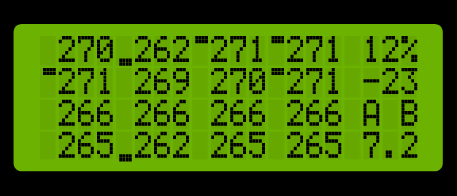
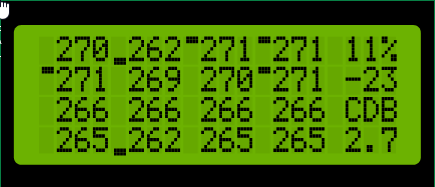
Fix status display bug

diff --git a/JK-BMSToPylontechCAN/JK-BMS_LCD.hpp b/JK-BMSToPylontechCAN/JK-BMS_LCD.hpp
@@ -172,25 +172,22 @@ void doLCDBacklightTimeoutHandling() {
 }
 #  endif
 
-char getCharOfEnableFlags() {
-#if defined(HANDLE_MULTIPLE_BMS)
-    // TODO - Decide, when to use ORed state and when BMS specific ones.
-    auto tStatus = JK_BMS_1.JKAllReplyPointer->BMSStatus.StatusAsByteArray[1];
-#else
-    auto tStatus = JK_BMS_1.JKAllReplyPointer->BMSStatus.StatusAsByteArray[1];
-#endif
-    char tCharToPrint = ' ';
-    if (tStatus & STATUS_BYTE_CHARGE_ACTIVE_MASK) {
-        tCharToPrint = 'C';
+void printShortEnableFlagsOnLCD() {
+    if (JK_BMS_1.JKAllReplyPointer->ChargeIsEnabled) {
+        myLCD.print('C');
+    } else {
+        myLCD.print(' ');
     }
-    if (tStatus & STATUS_BYTE_DISCHARGE_ACTIVE_MASK) {
-        tCharToPrint = 'D';
+    if (JK_BMS_1.JKAllReplyPointer->DischargeIsEnabled) {
+        myLCD.print('D');
+    } else {
+        myLCD.print(' ');
     }
-    if (tStatus & STATUS_BYTE_BALANCER_MASK) {
-        tCharToPrint = 'B';
+    if (JK_BMS_1.JKAllReplyPointer->BalancingIsEnabled) {
+        myLCD.print('B');
+    } else {
+        myLCD.print(' ');
     }
-    return tCharToPrint;
-
 }
 
 /*
@@ -199,16 +196,38 @@ char getCharOfEnableFlags() {
  * If Undervoltage, D is Replaced by U
  */
 void printShortStateOnLCD() {
-    char tCharToPrint = getCharOfEnableFlags();
+#if defined(HANDLE_MULTIPLE_BMS)
+    // TODO - Decide, when to use ORed state and when BMS specific ones.
+    auto tStatus = JK_BMS_1.JKAllReplyPointer->BMSStatus.StatusAsByteArray[1];
+#else
+    auto tStatus = JK_BMS_1.JKAllReplyPointer->BMSStatus.StatusAsByteArray[1];
+#endif
     if (JK_BMS_1.JKAllReplyPointer->BatteryAlarmFlags.AlarmBits.ChargeOvervoltageAlarm) {
-        tCharToPrint = 'O';
+        myLCD.print('O');
+    } else if (tStatus & STATUS_BYTE_CHARGE_ACTIVE_MASK) {
+        myLCD.print('C');
+    } else {
+        myLCD.print(' ');
     }
+
     if (JK_BMS_1.JKAllReplyPointer->BatteryAlarmFlags.AlarmBits.DischargeUndervoltageAlarm) {
-        tCharToPrint = 'U';
+        myLCD.print('U');
+    } else if (tStatus & STATUS_BYTE_DISCHARGE_ACTIVE_MASK) {
+        myLCD.print('D');
+    } else {
+        myLCD.print(' ');
     }
-    myLCD.print(tCharToPrint);
+
+    if (tStatus & STATUS_BYTE_BALANCER_MASK) {
+        myLCD.print('B');
+    } else {
+        myLCD.print(' ');
+    }
 }
 
+/*
+ * not used yet
+ */
 void printLongStateOnLCD() {
     auto tStatus = JK_BMS_1.JKAllReplyPointer->BMSStatus.StatusAsByteArray[1];
 
@@ -259,7 +278,7 @@ void printAlarmHexOrStateOnLCD() {
  * Print Info in last 3 columns
  *  SOC
  *  Current
- *  " A  " or " A B"
+ *  " CDB" state of enabled functions
  *  Battery voltage difference
  */
 void printCellInfoOnLCD() {
@@ -291,13 +310,8 @@ void printCellInfoOnLCD() {
                     // Print current in the last 4 characters
                     LCDPrintFloatValueRightAligned(&myLCD, JK_BMS_1.JKComputedData.BatteryLoadCurrentFloat, 4);
                 } else if (i == 12) {
-                    // print " A  " or " A B"
-                    myLCD.print(F(" A "));
-                    if (JK_BMS_1.JKAllReplyPointer->BMSStatus.StatusAsByteArray[1] & STATUS_BYTE_BALANCER_MASK) {
-                        myLCD.print('B');
-                    } else {
-                        myLCD.print(' ');
-                    }
+                    myLCD.print(' ');
+                    printShortStateOnLCD();
                 }
             }
             myLCD.setCursor(0, tRowNumber);
@@ -812,7 +826,7 @@ void printOverwiewOrAlarmInfoOnLCD() {
 // Last 3 characters are the enable states
         myLCD.setCursor(14, 1);
         myLCD.print(F("En:"));
-        myLCD.print(getCharOfEnableFlags());
+        printShortEnableFlagsOnLCD();
 
         /*
          * Row 3 - Voltage, Current and Power
@@ -836,7 +850,7 @@ void printBMSDataOnLCD() {
 #  if !defined(DISPLAY_ALWAYS_ON)
             && !sSerialLCDIsSwitchedOff
 #  endif
-            ) {
+    ) {
         /*
          * Check for alarm info, which is not yet reset by main loop at time of calling
          */

diff --git a/JK-BMSToPylontechCAN/JK-BMS.h b/JK-BMSToPylontechCAN/JK-BMS.h
@@ -299,7 +299,7 @@ struct JKReplyStruct {
     union BatteryAlarmFlagsUnion BatteryAlarmFlags;
 
     uint8_t TokenBatteryStatus;                     // 0x8C
-    union BMSStatusUnion BMSStatus;
+    union BMSStatusUnion BMSStatus;                 // Current status, not enabled one
 
     uint8_t TokenBatteryOvervoltageProtection10Millivolt; // 0x8E
     uint16_t BatteryOvervoltageProtection10Millivolt; // 1000 to 15000 BMS computed: # of cells * CellOvervoltageProtectionMillivolt

diff --git a/README.md b/README.md
@@ -104,9 +104,9 @@ The same (raw) data without ESR correction of voltage.
 | ![Big info page](https://github.com/ArminJo/JK-BMSToPylontechCAN/blob/main/pictures/BigInfoPage.png) | ![Overview page](https://github.com/ArminJo/JK-BMSToPylontechCAN/blob/main/pictures/OverviewPage.png) |
 | Undervoltage Alarm page<br/>Start of alarm message in first line<br/>Index and value of minimum cell and uptime in second line | Overtemperature Alarm page<br/>Alarm message is cleared by switching page |
 | ![Alarm page undervoltage](https://github.com/ArminJo/JK-BMSToPylontechCAN/blob/main/pictures/AlarmPage_Undervoltage.png) | ![Alarm page overtemperature](https://github.com/ArminJo/JK-BMSToPylontechCAN/blob/main/pictures/AlarmPage_MosFetOvertemperature.png) |
-| Cell info page with maximum and minimum indicators | Cell info page with:<br/>- (Cell voltages - 3 V)<br/>- SOC, current in A, balancing flag and difference between minimum / empty and current battery voltage in last column |
+| Cell info page with maximum and minimum indicators | Cell info page with SHOW_SHORT_CELL_VOLTAGES aktivated:<br/>- (Cell voltages - 3 V)<br/>- SOC, current in A, state of enabled functions and difference between minimum / empty and current battery voltage in last column |
 | ![Cell info page long](https://github.com/ArminJo/JK-BMSToPylontechCAN/blob/main/pictures/CellInfoPage.png) | ![Cell info page short](https://github.com/ArminJo/JK-BMSToPylontechCAN/blob/main/pictures/CellInfoPage_shortVoltages.png) |
-| Maximum Cell Statistics page with total Time of Balancing | Maximum Cell Statistics page |
+| Maximum Cell Statistics page with total Time of Balancing | Maximum Cell Statistics page with total balancing time in right rows|
 | ![Max page](https://github.com/ArminJo/JK-BMSToPylontechCAN/blob/main/pictures/StatisticsMaxPage.png) | ![Min page](https://github.com/ArminJo/JK-BMSToPylontechCAN/blob/main/pictures/StatisticsMinPage.png)  |
 | CAN info page |  |
 | ![CAN info page](https://github.com/ArminJo/JK-BMSToPylontechCAN/blob/main/pictures/CANInfoPage.png) |  |
